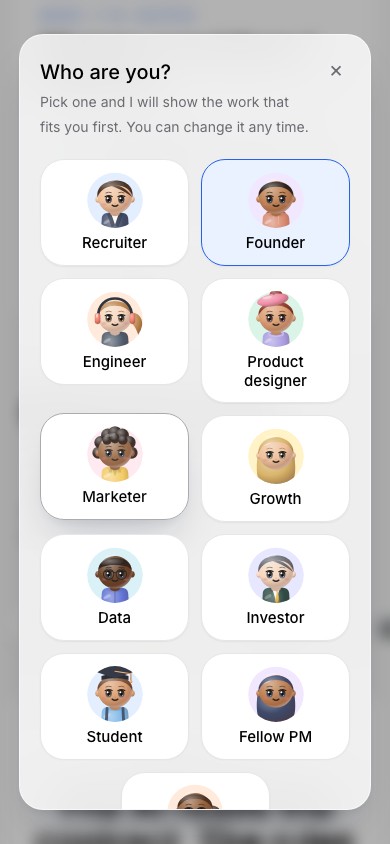
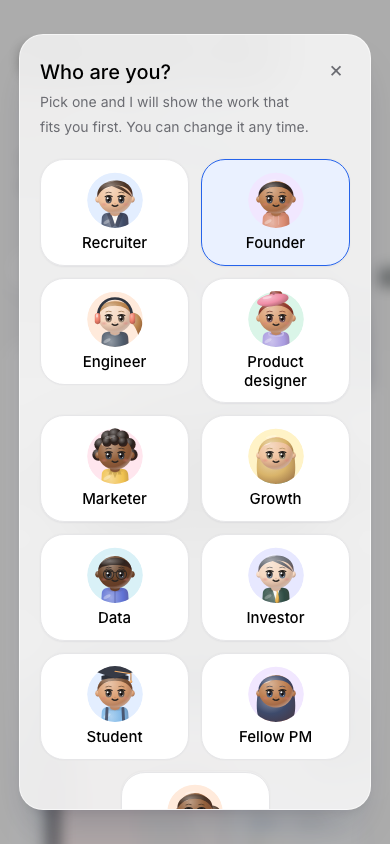
fix(visitor): equal-size role tiles everywhere (no wide cell), last row centred; clamp flag tooltips to the viewport

diff --git a/src/components/site/visitor/visitor-panel.tsx b/src/components/site/visitor/visitor-panel.tsx
@@ -131,11 +131,10 @@ export function RolePicker({ onPick, onEscape, autoFocus, labelId }: { onPick: (
         Who are you?
       </p>
       <p className="pr-10 text-[14px] text-ink-3">Pick one and I will show the work that fits you first. You can change it any time.</p>
-      {/* 11 cards, the last two cells wide: 12 cells, so 2, 3 or 4 columns all end on a full row. */}
-      <div role="radiogroup" aria-labelledby={labelId} className="mt-5 grid w-full grid-cols-2 gap-3 sm:grid-cols-3 lg:grid-cols-4">
+      {/* 11 same-size cards, 2 / 3 / 4 a row; the short last row is centred, nothing stretches. */}
+      <div role="radiogroup" aria-labelledby={labelId} className="mt-5 flex w-full flex-wrap justify-center gap-3 [&>*]:w-[calc((100%-0.75rem)/2)] sm:[&>*]:w-[calc((100%-1.5rem)/3)] lg:[&>*]:w-[calc((100%-2.25rem)/4)]">
         {ITEMS.map((id, i) => (
           <RoleCard
-            wide={i === ITEMS.length - 1}
             key={id}
             id={id}
             label={ROLES[id].label}
@@ -165,6 +164,10 @@ export function RolePicker({ onPick, onEscape, autoFocus, labelId }: { onPick: (
 }
 
 const ROW_ITEMS = ITEMS;
+
+// Unpicked strip: a wrapping row of equal tiles (width = row minus gaps, divided by tiles per row), last row centred.
+const UNPICKED_ROW =
+  "flex flex-wrap justify-center [&>*]:w-[calc((100%-1.25rem)/3)] sm:[&>*]:w-[calc((100%-3.75rem)/6)] lg:[&>*]:w-[calc((100%-5rem)/6)]";
 
 /**
  * The standalone "Pick your character" section, right after the logo band.
@@ -201,9 +204,8 @@ export function VisitorTop({ counts, summary, stats }: { counts?: Partial<Record
       move(keys[event.key]!);
     }
   }
-  // Unpicked: 11 tiles, the last one two cells wide (phone 3+3+3+2, wider 6+4+2: flush rows).
+  // Unpicked: 11 same-size tiles, 3 a row on a phone and 6 wider, the short last row centred (nothing stretches).
   // Picked: the hero plus 10 tiles in two flush rows (phone: 5 small avatar-only tiles a row).
-  const wideIdx = chosen ? -1 : ROW_ITEMS.length - 1;
   // The title already says the country: the city line only helps before a pick, and goes once the hero takes over.
   const where = chosen ? null : locationLine(geo);
 
@@ -245,7 +247,7 @@ export function VisitorTop({ counts, summary, stats }: { counts?: Partial<Record
           role="radiogroup"
           aria-label="Your role"
           data-testid="visitor-strip"
-          className={cn("mt-5 grid grid-cols-3 gap-x-2.5 gap-y-4 pt-4 sm:gap-x-3 sm:gap-y-7 sm:pt-5 lg:gap-x-4", chosen ? "grid-cols-5 gap-x-2 sm:grid-cols-5 lg:grid-cols-[minmax(0,1.7fr)_repeat(5,minmax(0,1fr))]" : "sm:grid-cols-6")}
+          className={cn("mt-5 grid grid-cols-3 gap-x-2.5 gap-y-4 pt-4 sm:gap-x-3 sm:gap-y-7 sm:pt-5 lg:gap-x-4", chosen ? "grid-cols-5 gap-x-2 sm:grid-cols-5 lg:grid-cols-[minmax(0,1.7fr)_repeat(5,minmax(0,1fr))]" : UNPICKED_ROW)}
         >
           {ROW_ITEMS.map((id, i) => (
             <RoleTile
@@ -257,7 +259,6 @@ export function VisitorTop({ counts, summary, stats }: { counts?: Partial<Record
               selected={id === role}
               tabbable={i === tabIdx}
               count={counts?.[id]}
-              wide={i === wideIdx}
               mini={chosen}
               buttonRef={(el) => {
                 refs.current[i] = el;

diff --git a/src/components/site/visitor/stats/stats-strip.tsx b/src/components/site/visitor/stats/stats-strip.tsx
@@ -4,7 +4,7 @@ import { motion } from "motion/react";
 import { SPRING } from "@/components/motion/springs";
 import { useReducedMotion } from "@/lib/use-reduced-motion";
 import type { RoleId } from "../role-ids";
-import { useState } from "react";
+import { useRef, useState } from "react";
 import { PLURALS, countryLabel, countryRows, type StatsView, withOwnCountry } from "./stats-copy";
 import { RollingNumber } from "./rolling-number";
 
@@ -26,8 +26,20 @@ function Big({ value, label, testId, prefix }: { value: number; label: string; t
  */
 function FlagDot({ code, flag, label }: { code: string; flag: string; label: string }) {
   const [open, setOpen] = useState(false);
+  const [shift, setShift] = useState(0);
+  const tip = useRef<HTMLSpanElement>(null);
+  // Keep the tooltip inside the viewport: measure it centred on the flag, then nudge it in from an edge.
+  const place = () => {
+    const el = tip.current;
+    if (!el) return;
+    const r = el.getBoundingClientRect();
+    const left = r.left - shift;
+    const right = left + r.width;
+    const pad = 8;
+    setShift(left < pad ? pad - left : right > window.innerWidth - pad ? window.innerWidth - pad - right : 0);
+  };
   return (
-    <li className="group relative">
+    <li className="group relative" onPointerEnter={place} onFocus={place}>
       <button
         type="button"
         data-testid={`country-${code}`}
@@ -43,7 +55,9 @@ function FlagDot({ code, flag, label }: { code: string; flag: string; label: str
         <span aria-hidden="true">{flag}</span>
       </button>
       <span
+        ref={tip}
         role="tooltip"
+        style={shift ? { marginLeft: shift } : undefined}
         data-testid={`country-tip-${code}`}
         className={`pointer-events-none absolute bottom-full left-1/2 z-20 mb-2 -translate-x-1/2 whitespace-nowrap rounded-lg bg-ink-1 px-2.5 py-1 text-[12px] text-white shadow-2 transition-opacity [@media(hover:hover)]:group-hover:opacity-100 group-has-[:focus-visible]:opacity-100 ${open ? "opacity-100" : "opacity-0"}`}
       >

diff --git a/tests/e2e/visitor-picker.spec.ts b/tests/e2e/visitor-picker.spec.ts
@@ -323,3 +323,29 @@ test.describe("change-role modal layout", () => {
     });
   }
 });
+
+test.describe("top picker layout", () => {
+  for (const vp of [{ width: 1440, height: 900 }, { width: 768, height: 1024 }, { width: 390, height: 844 }]) {
+    test(`${vp.width}px: unpicked tiles are all one size with the short last row centred; the picked layout still works`, async ({ page }) => {
+      await page.setViewportSize(vp);
+      await page.goto("/");
+      const strip = page.getByTestId("visitor-strip");
+      await strip.scrollIntoViewIfNeeded();
+      const boxes = await strip.locator(":scope > *").evaluateAll((els) => els.map((e) => e.getBoundingClientRect()).map((r) => ({ x: r.x, y: r.y, w: r.width, right: r.right })));
+      expect(boxes).toHaveLength(11);
+      const widths = boxes.map((b) => b.w);
+      expect(Math.max(...widths) - Math.min(...widths)).toBeLessThanOrEqual(1);
+      const g = await strip.boundingBox();
+      const lastY = boxes[10].y;
+      const last = boxes.filter((b) => Math.abs(b.y - lastY) < 2);
+      expect(Math.abs(last[0].x - g!.x - (g!.x + g!.width - last[last.length - 1].right))).toBeLessThanOrEqual(2);
+      await page.getByTestId("section-visitor").screenshot({ path: `process/features/portfolio-site/active/autoresearch-ux-261004_04-10-26/research/R8-shots/picker-unpicked-${vp.width}.png` });
+      await page.getByTestId("tile-founder").click();
+      await expect(chip(page)).toContainText("You: Founder");
+      await expect(page.getByTestId("tile-founder")).toHaveAttribute("aria-checked", "true");
+      await page.waitForTimeout(900); // let the layout spring settle before the picture
+      await expectNoHorizontalOverflow(page);
+      await page.getByTestId("section-visitor").screenshot({ path: `process/features/portfolio-site/active/autoresearch-ux-261004_04-10-26/research/R8-shots/picker-picked-${vp.width}.png` });
+    });
+  }
+});

diff --git a/src/components/site/visitor/visitor-modal.tsx b/src/components/site/visitor/visitor-modal.tsx
@@ -24,13 +24,6 @@ export function VisitorModal() {
   );
 }
 
-// The radiogroup becomes a wrapping flex row: every card one width (2 / 3 / 4 per row), the short last row centred.
-const MODAL_GRID = [
-  "[&_[role=radiogroup]]:flex [&_[role=radiogroup]]:flex-wrap [&_[role=radiogroup]]:justify-center",
-  "[&_[role=radiogroup]>*]:!col-span-1 [&_[role=radiogroup]>*]:w-[calc((100%-0.75rem)/2)]",
-  "sm:[&_[role=radiogroup]>*]:w-[calc((100%-1.5rem)/3)] lg:[&_[role=radiogroup]>*]:w-[calc((100%-2.25rem)/4)]",
-].join(" ");
-
 function Sheet({ onClose, onPick }: { onClose: () => void; onPick: (role: RoleId) => void }) {
   const ref = useRef<HTMLDialogElement>(null);
   // Dev StrictMode runs the effect twice: the cleanup's close() fires a (late) close event that must not be taken for a user close, or the sheet unmounts at once.
@@ -76,10 +69,7 @@ function Sheet({ onClose, onPick }: { onClose: () => void; onPick: (role: RoleId
         >
           <span aria-hidden="true">×</span>
         </button>
-        {/* Same-size cards, last row centred: the shared grid would stretch the 11th card across two cells. */}
-        <div className={MODAL_GRID}>
-          <RolePicker onPick={(role) => { ref.current?.close(); onPick(role); }} autoFocus={false} labelId="visitor-modal-label" />
-        </div>
+        <RolePicker onPick={(role) => { ref.current?.close(); onPick(role); }} autoFocus={false} labelId="visitor-modal-label" />
       </motion.div>
     </dialog>
   );

diff --git a/src/components/site/visitor/role-card.tsx b/src/components/site/visitor/role-card.tsx
@@ -25,13 +25,12 @@ type Props = {
   shareAvatar: boolean;
   onSelect: () => void;
   /** Spans two grid cells (the last card), so the grid has no empty cell. */
-  wide?: boolean;
   onKeyDown: (event: React.KeyboardEvent<HTMLButtonElement>) => void;
   buttonRef: (el: HTMLButtonElement | null) => void;
 };
 
 /** One radio in the picker: a clay avatar, the label and a short blurb. 44 px+ target. */
-export function RoleCard({ id, label, blurb, index, selected, tabbable, shareAvatar, wide, onSelect, onKeyDown, buttonRef }: Props) {
+export function RoleCard({ id, label, blurb, index, selected, tabbable, shareAvatar, onSelect, onKeyDown, buttonRef }: Props) {
   const reduce = useReducedMotion();
   // Clipped to a round badge: the bust's torso would otherwise hang out of the card.
   const avatar = (
@@ -40,7 +39,7 @@ export function RoleCard({ id, label, blurb, index, selected, tabbable, shareAva
     </span>
   );
   return (
-    <LiftCard variant="row" radius="rounded-2xl" className={cn("h-full", wide && "col-span-2")}>
+    <LiftCard variant="row" radius="rounded-2xl" className="h-full">
       <button
         ref={buttonRef}
         type="button"

diff --git a/tests/e2e/visitor-stats.spec.ts b/tests/e2e/visitor-stats.spec.ts
@@ -165,6 +165,15 @@ test.describe("visitor countries", () => {
       await page.keyboard.press("Tab"); // keyboard focus shows the next flag's tooltip, and only that one
       await expect(tip).toHaveCSS("opacity", "0");
       await expect(page.getByTestId("country-tip-US")).toHaveCSS("opacity", "1");
+      // Every tooltip, opened at the edges too, stays inside the viewport.
+      for (const code of ["VN", "FR"]) {
+        await page.getByTestId(`country-${code}`).focus();
+        await page.keyboard.press("Shift+Tab");
+        await page.keyboard.press("Tab");
+        const b = await page.getByTestId(`country-tip-${code}`).boundingBox();
+        expect(b!.x).toBeGreaterThanOrEqual(0);
+        expect(b!.x + b!.width).toBeLessThanOrEqual(vp.width);
+      }
       const overflow = await page.evaluate(() => document.documentElement.scrollWidth - window.innerWidth);
       expect(overflow).toBeLessThanOrEqual(0);
       await page.getByTestId("visitor-stats-strip").screenshot({ path: `process/features/portfolio-site/active/autoresearch-ux-261004_04-10-26/research/R8-shots/countries-${vp.width}.png` });
